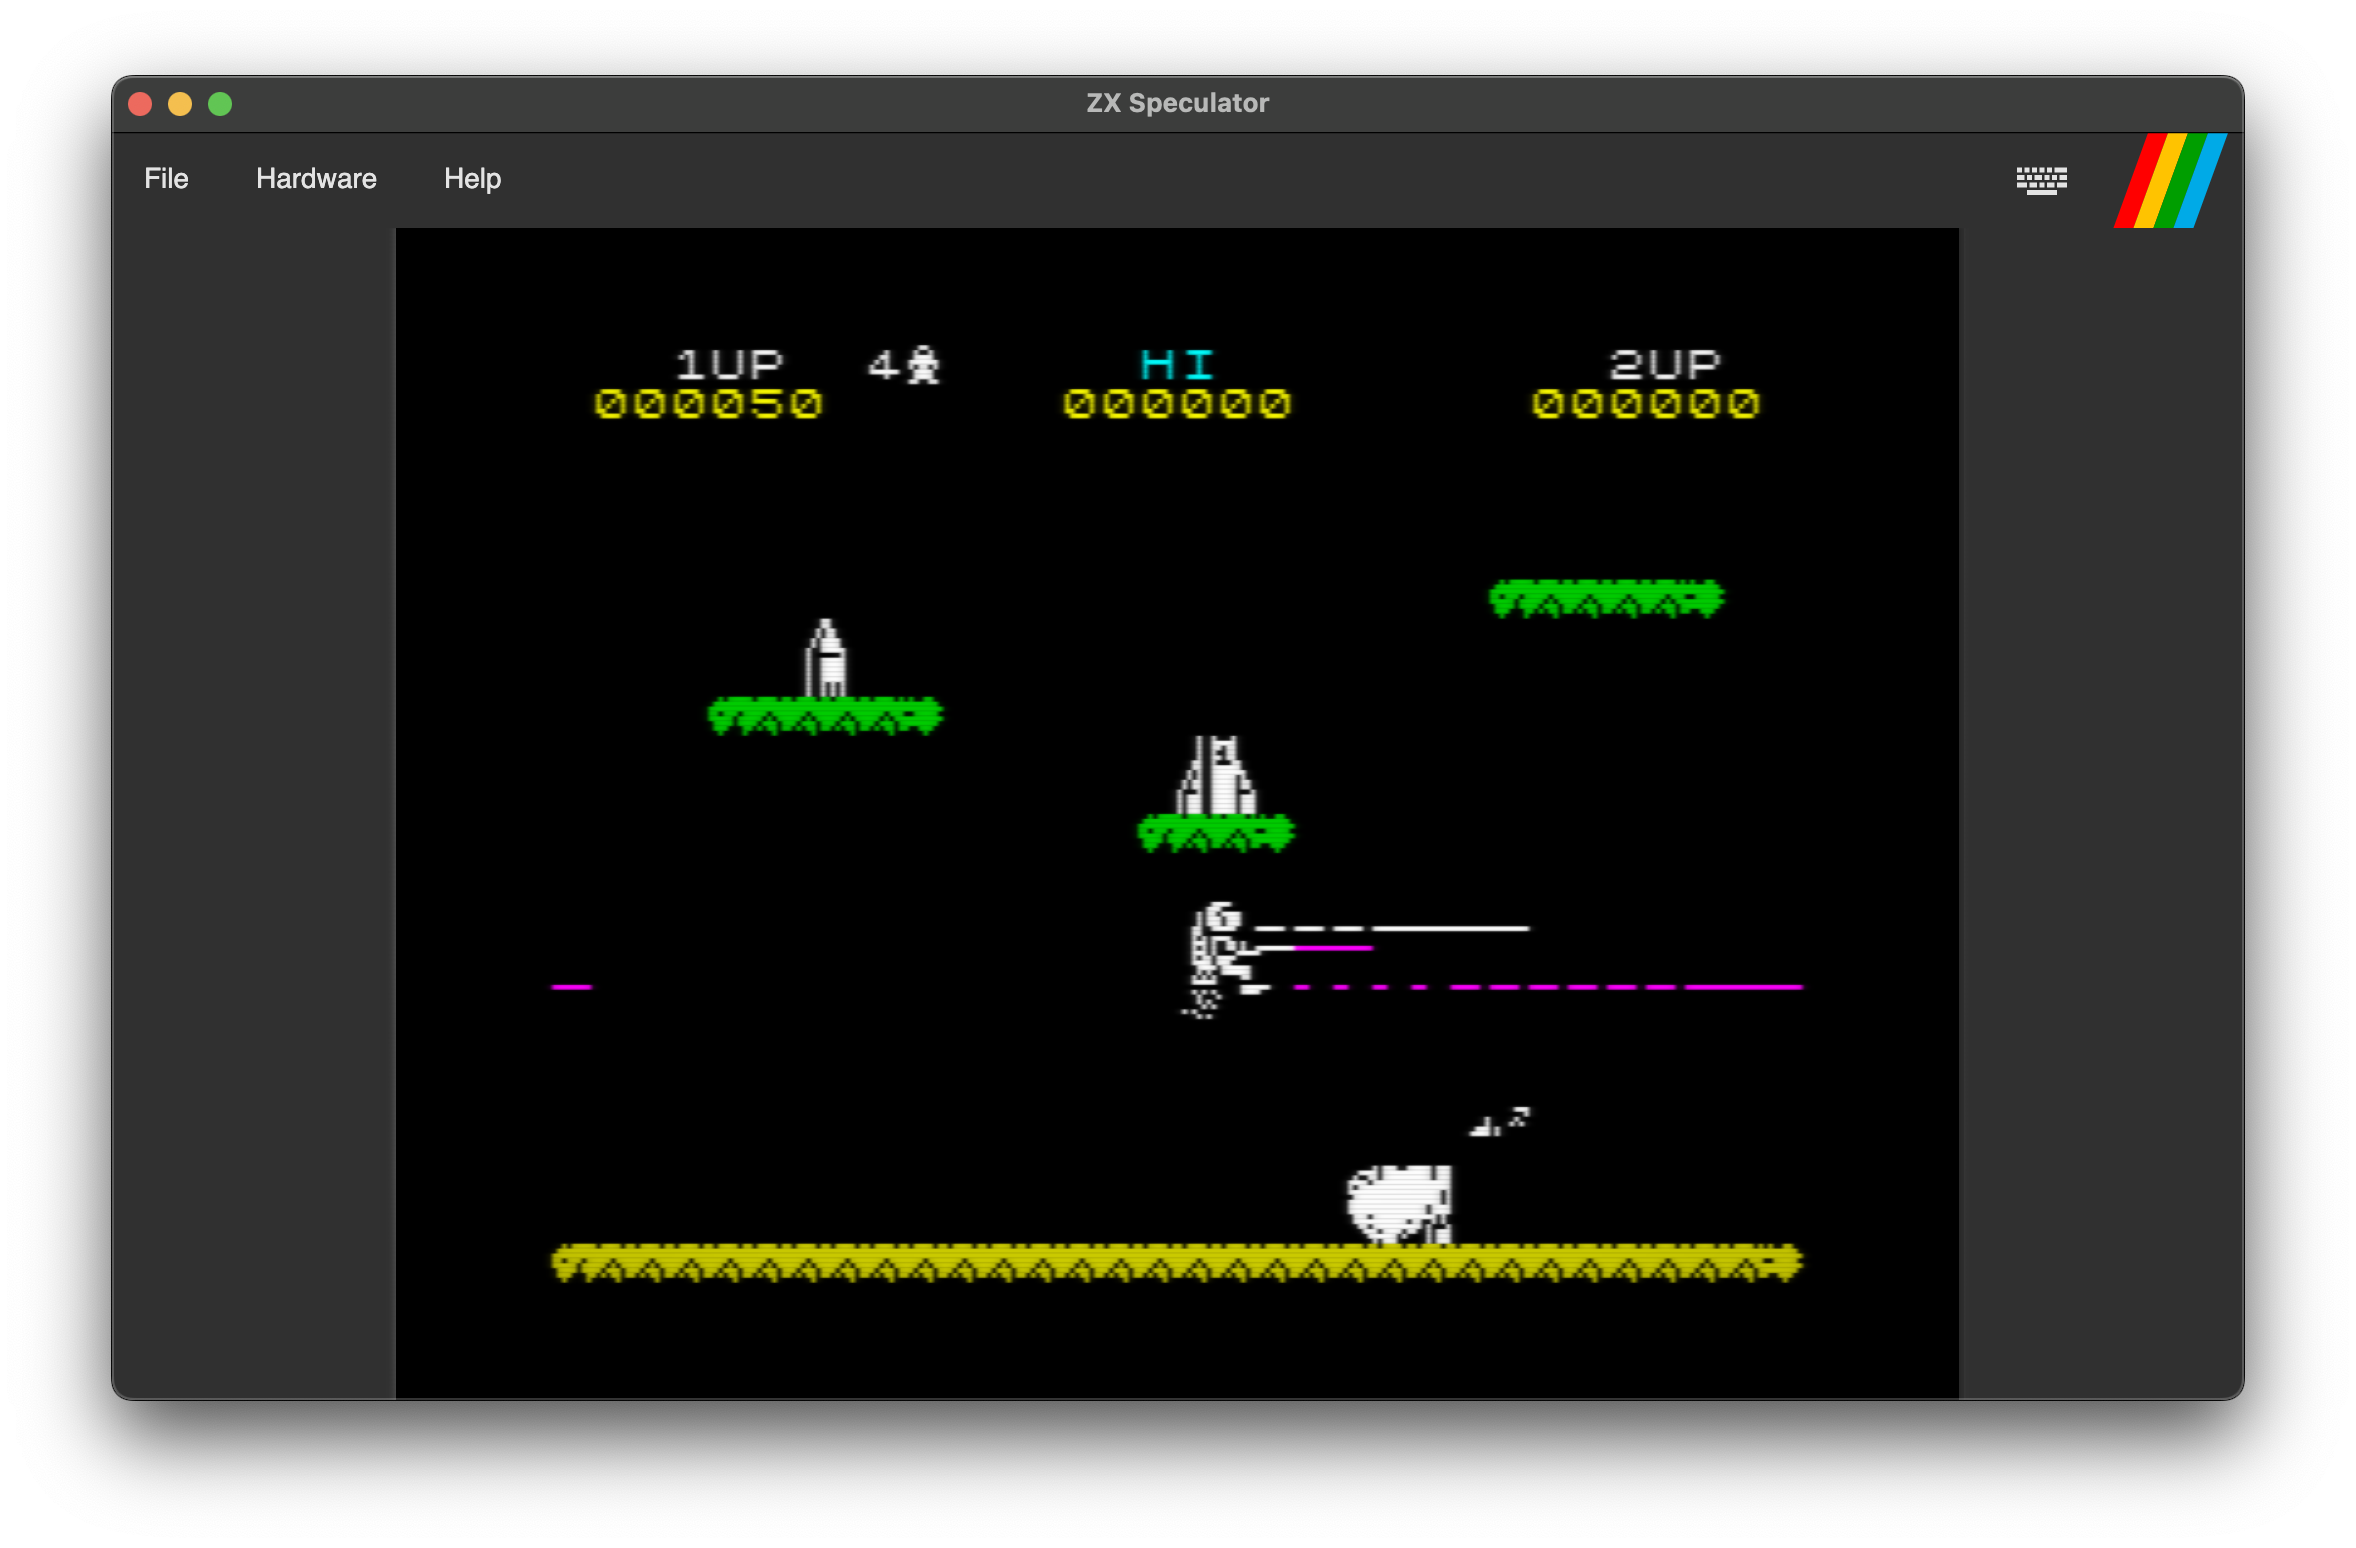
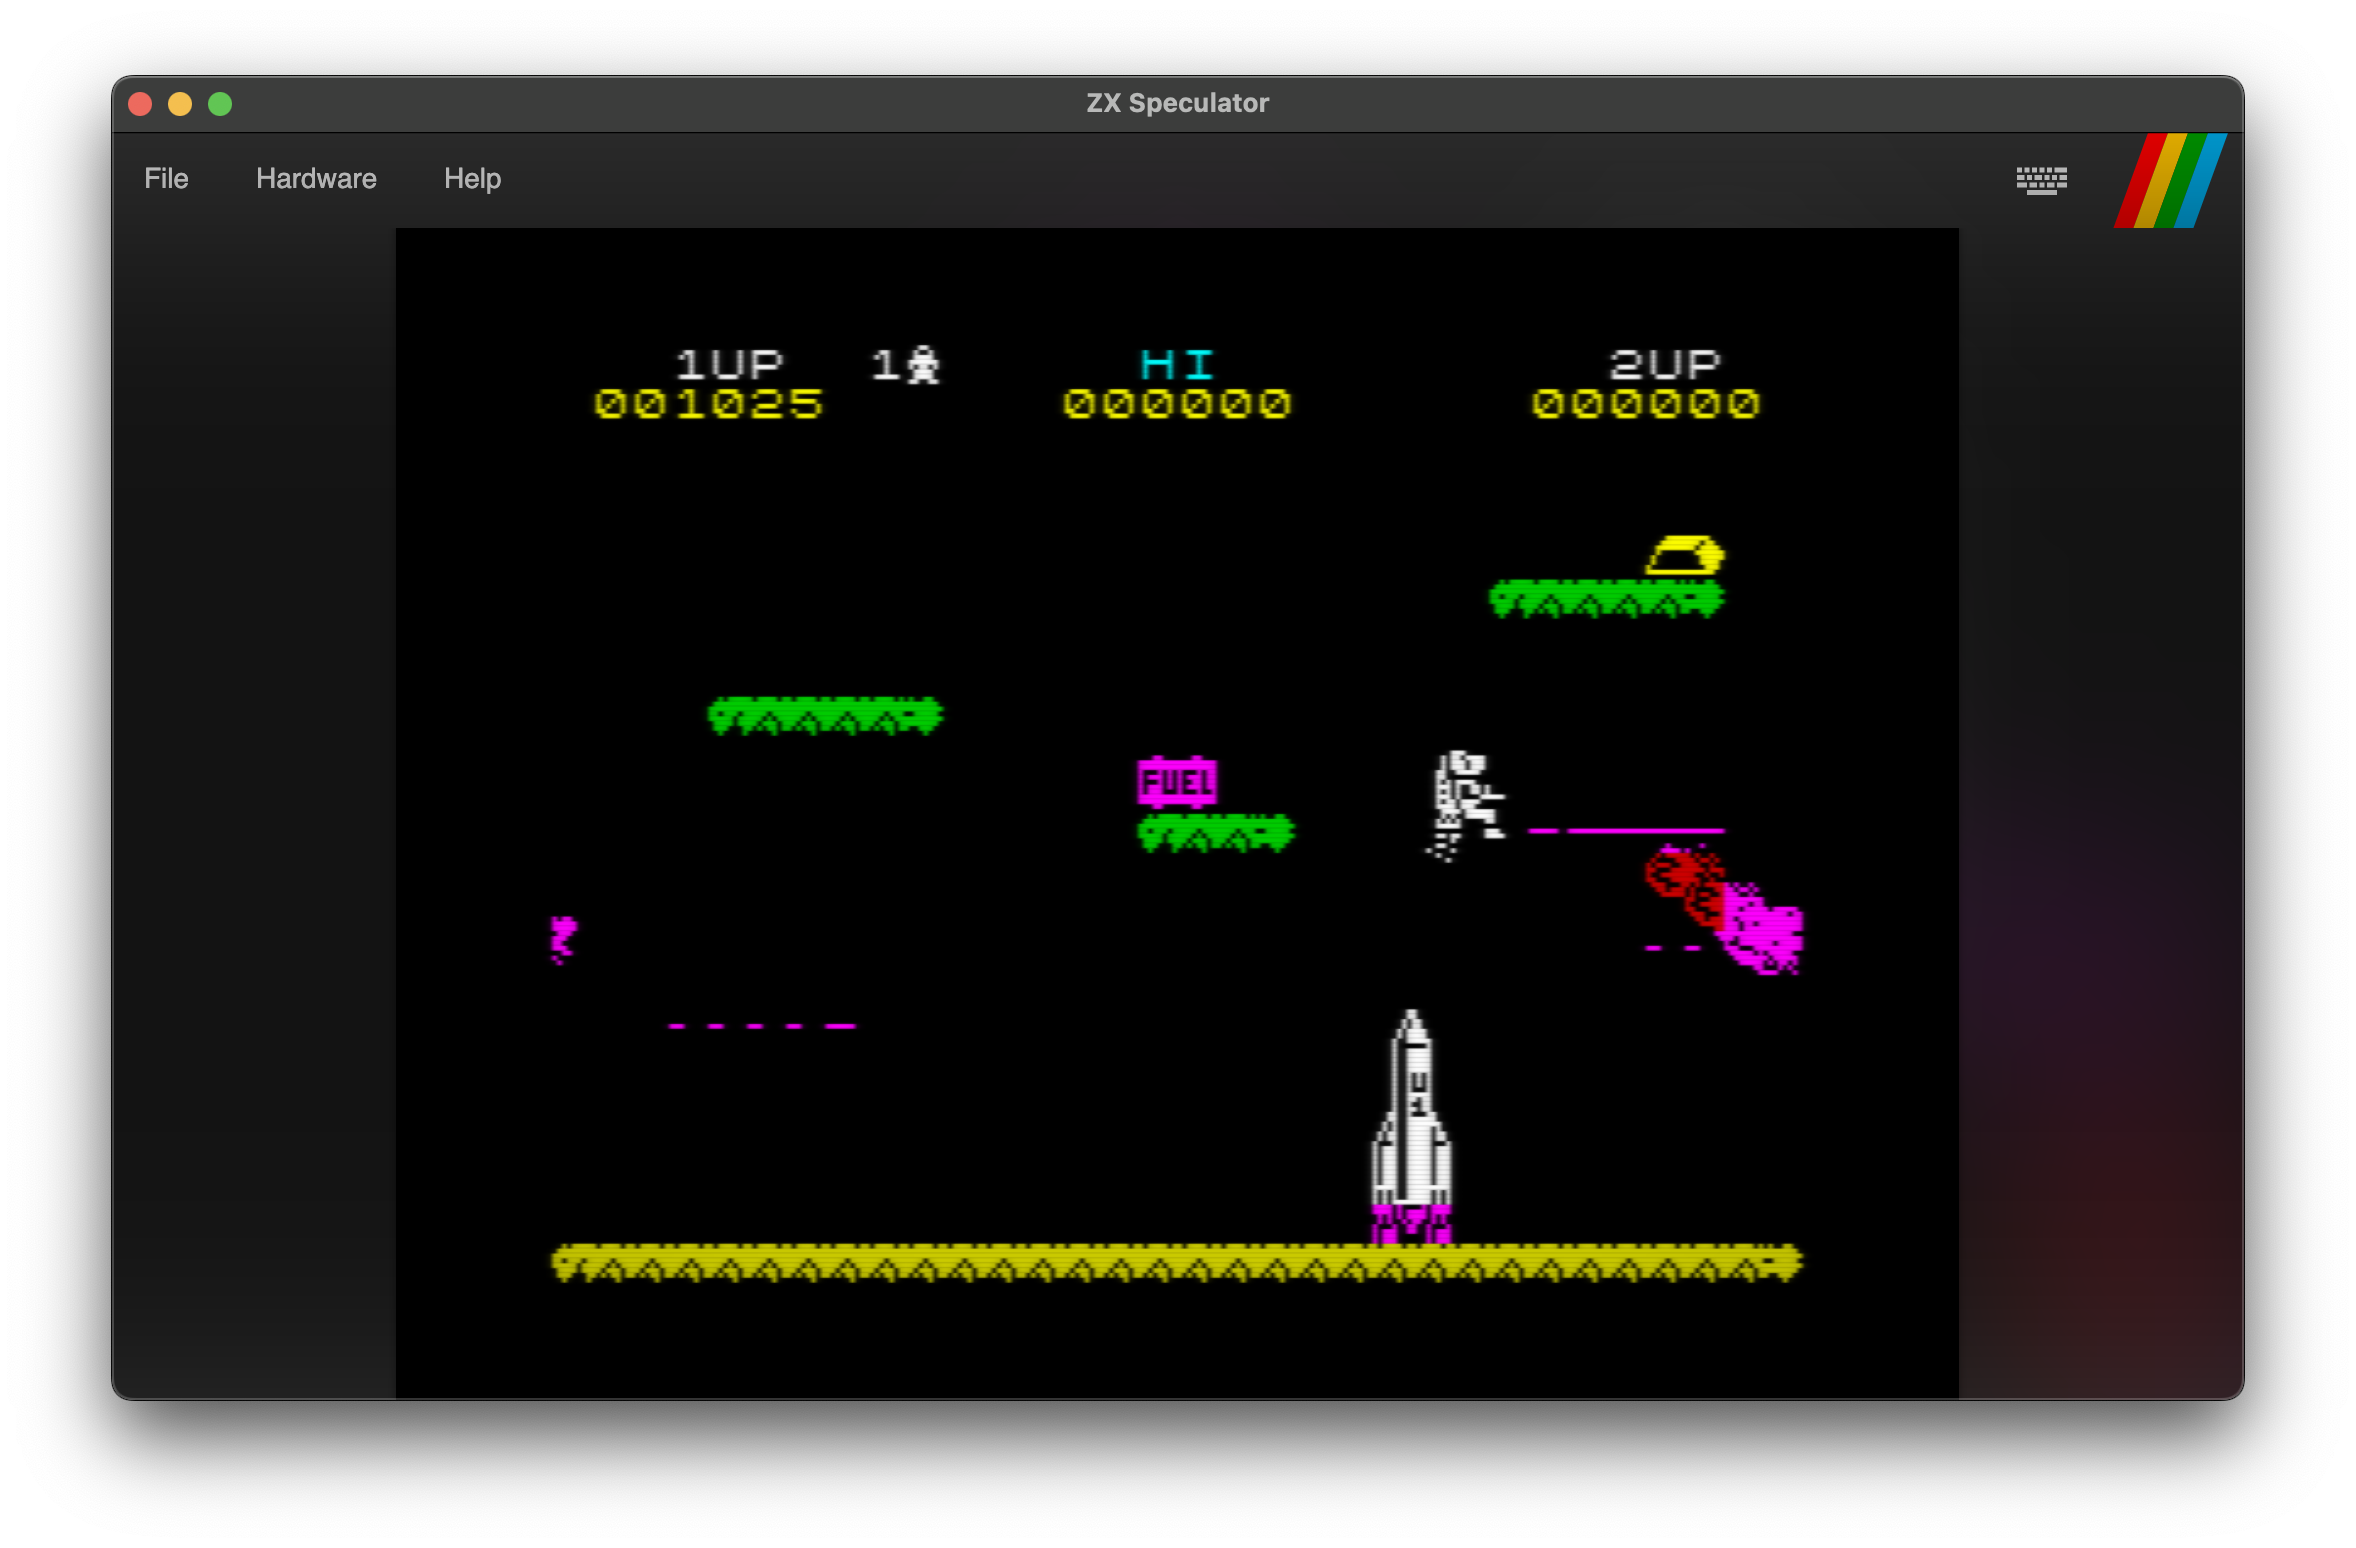
Feature: Ambient Blur
Good when recording for YouTube, etc.

diff --git a/Speculator/Speculator/Views/MainWindow.axaml.cs b/Speculator/Speculator/Views/MainWindow.axaml.cs
@@ -23,6 +23,7 @@ namespace Speculator.Views;
 
 public partial class MainWindow : Window
 {
+    private bool m_isLoaded;
     private MainWindowViewModel ViewModel => (MainWindowViewModel)DataContext;
     
     public MainWindow()
@@ -31,14 +32,24 @@ public partial class MainWindow : Window
 
         Closed += (_, _) => (DataContext as IDisposable)?.Dispose();
     }
-    
-    private void OnScreenBitmapLoaded(object sender, RoutedEventArgs e)
+
+    override protected void OnLoaded(RoutedEventArgs e)
     {
-        if (DataContext == null)
-            return;
+        base.OnLoaded(e);
         
+        if (m_isLoaded)
+            return;
+        m_isLoaded = true;
+
         // Kick the UI to update the screen when the emulator updates it.
-        var action = new Action(() => (sender as Image)?.InvalidateVisual());
+        var action = new Action(() =>
+        {
+            if (AmbientDisplay.IsVisible)
+                AmbientDisplay.InvalidateVisual();
+            MainDisplay.InvalidateVisual();
+            if (CrtOverlay.IsVisible)
+                CrtOverlay.InvalidateVisual();
+        });
         ViewModel.Display.Refreshed += (_, _) =>
         {
             try
@@ -50,7 +61,7 @@ public partial class MainWindow : Window
             }
         };
     }
-    
+
     private void OnAboutDialogClicked(object sender, PointerPressedEventArgs e) =>
         Host.CloseDialogCommand.Execute(sender);
 

diff --git a/Speculator/Speculator/ViewModels/MainWindowViewModel.cs b/Speculator/Speculator/ViewModels/MainWindowViewModel.cs
@@ -23,6 +23,8 @@ namespace Speculator.ViewModels;
 
 public class MainWindowViewModel : ViewModelBase, IDisposable
 {
+    private bool m_isAmbientBlurred;
+    
     public ZxSpectrum Speccy { get; }
     public ZxDisplay Display { get; }
     public bool IsFullThrottle { get; private set; }
@@ -35,6 +37,12 @@ public class MainWindowViewModel : ViewModelBase, IDisposable
             Display.IsCrt = value;
             OnPropertyChanged();
         }
+    }
+
+    public bool IsAmbientBlurred
+    {
+        get => m_isAmbientBlurred;
+        set => SetField(ref m_isAmbientBlurred, value);
     }
 
     public MainWindowViewModel()
@@ -114,6 +122,9 @@ public class MainWindowViewModel : ViewModelBase, IDisposable
         OnPropertyChanged(nameof(IsFullThrottle));
         Speccy.TheCpu.FullThrottle = IsFullThrottle;
     }
+
+    public void ToggleAmbientBlur() =>
+        IsAmbientBlurred = !IsAmbientBlurred;
 
     public void OpenProjectPage() => new Uri("https://github.com/deanthecoder/ZXSpeculator").Open();
     

diff --git a/README.md b/README.md
@@ -11,13 +11,14 @@ ZX Speculator is a ZX Spectrum 48K emulator, written in C#. It leverages the [Av
 ## Features
 - **Platform Independent**: Built using [Avalonia](https://avaloniaui.net/), ensuring compatibility across various platforms.
 - **File Format Support**: Compatible with .z80, .bin, .scr, .tap, and .sna files.
+- **Archive Support**: Load files directly from `.zip` archives.
 - **Integrated Debugger**: Comes with a built-in debugger for examination of the Z80 CPU state, including:
   - Instruction stepping.
   - Breakpoints.
   - Instruction history.
-- **Sound Libraries**: Utilizes [OpenAL](https://www.openal.org/) on Mac and Windows for sound emulation.
-- **Display**: Optional CRT TV effect.
+- **Display**: Optional CRT TV and 'Ambient Blur' effects.
 - **Joysticks**: Kempston and Cursor joystick support.
+- **Sound Libraries**: Utilizes [OpenAL](https://www.openal.org/) on Mac and Windows for sound emulation.
 
 ## Development and Testing
 Developed on a Mac environment, ZX Speculator is also tested on Windows and passes all the ZEXDOC tests and FUSE emulator tests.
